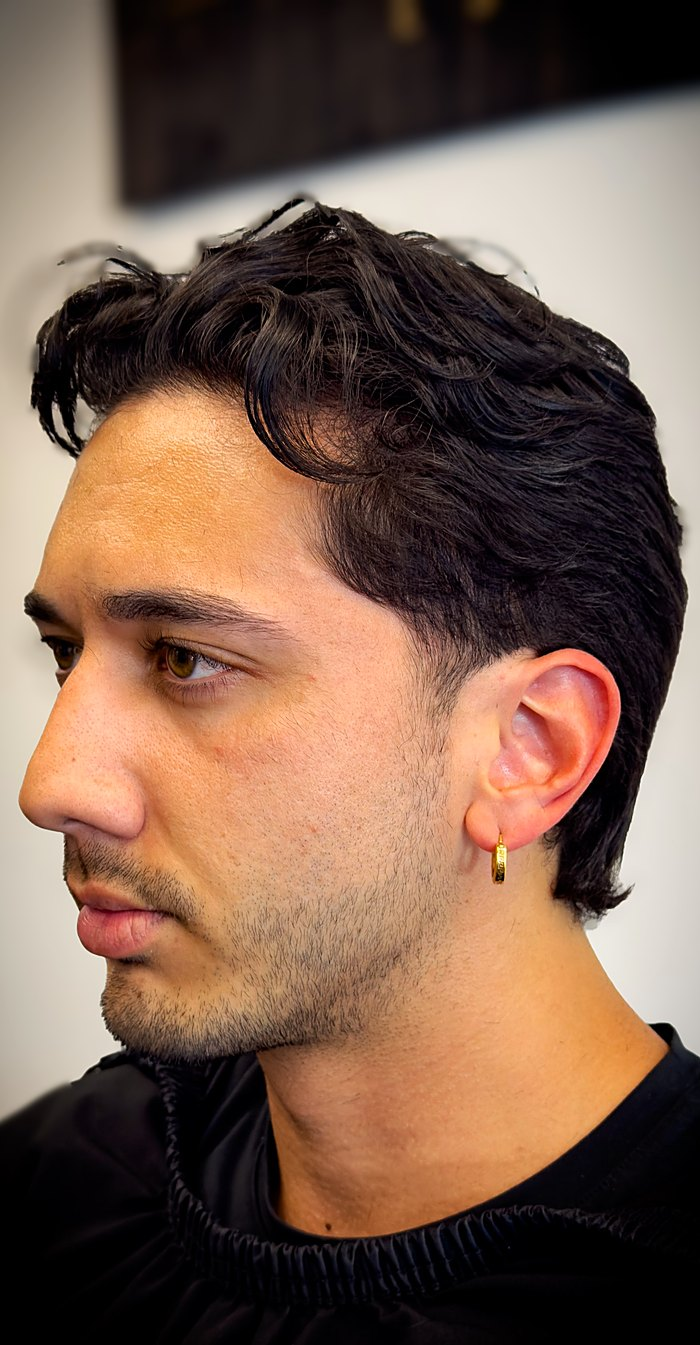
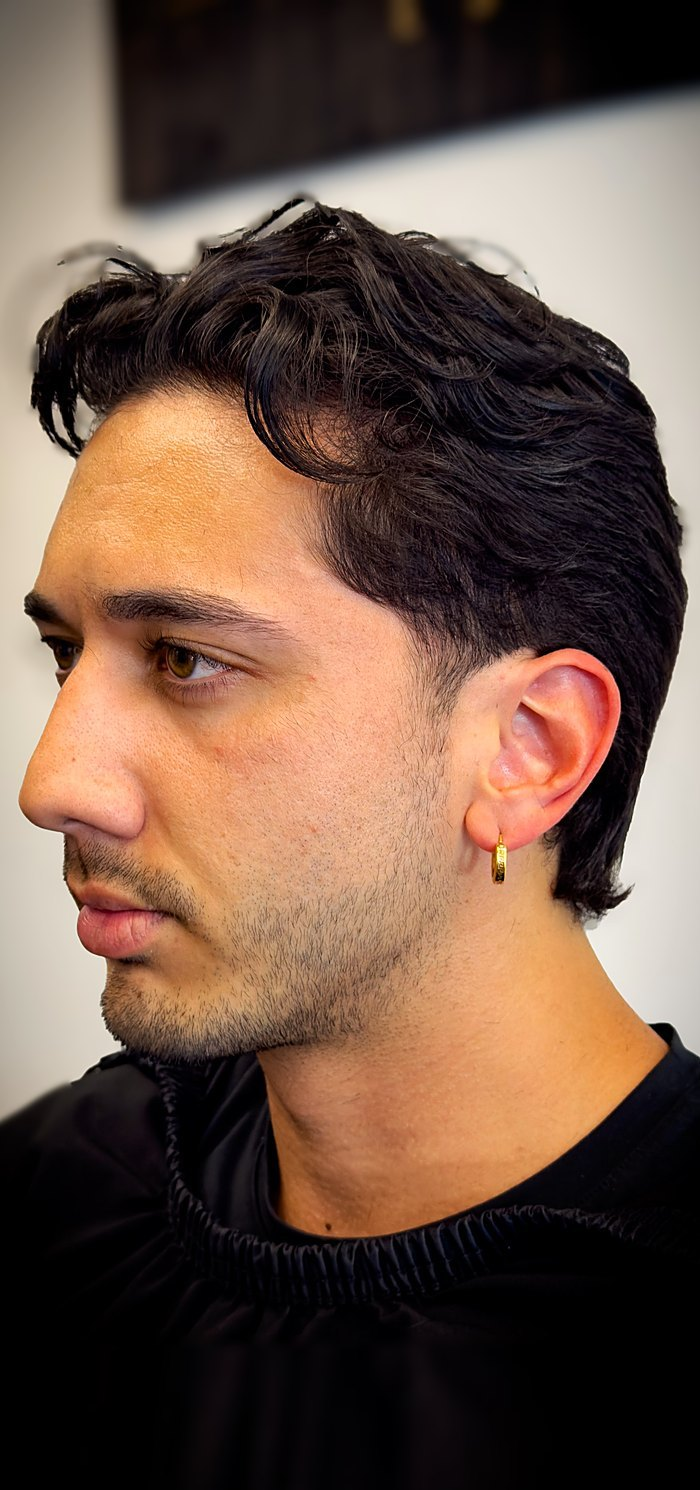
Fit the tall portrait so the face isn't cropped
Claude-Session: https://claude.ai/code/session_01QEBK6Qnz19RuPp24x5TGdt

diff --git a/index.html b/index.html
@@ -293,7 +293,7 @@ footer .wrap { align-items: center;  display: flex; flex-wrap: wrap; gap: 10px 3
       <figure><img src="work/waves.jpg" alt="Men's medium-length cut with natural waves swept back" width="1100" height="1100" loading="lazy"></figure>
       <figure><img src="work/mullet.jpg" alt="Profile of a textured modern mullet with a taper fade" width="1100" height="1100" loading="lazy"></figure>
       <figure><img src="work/pixie.jpg" alt="Short silver pixie cut with soft texture on top" width="1100" height="1100" loading="lazy"></figure>
-      <figure class="tall"><img src="work/wavy.jpg" style="object-position: 0% 50%" alt="Men's textured cut with natural waves and a soft, longer back" width="700" height="1345" loading="lazy"></figure>
+      <figure class="tall"><img src="work/wavy.jpg" style="object-position: 50% 0%" alt="Men's textured cut with natural waves and a soft, longer back" width="700" height="1490" loading="lazy"></figure>
       <figure><img src="work/fringe.jpg" alt="Shaggy textured cut with a heavy fringe" width="1100" height="1100" loading="lazy"></figure>
       <figure><img src="work/slick.jpg" alt="Slicked-back men's cut with a tapered side and full beard" width="1100" height="1100" loading="lazy"></figure>
       <figure><img src="work/crop.jpg" alt="Short textured crop with choppy layers and a soft fringe" width="1100" height="1100" loading="lazy"></figure>
